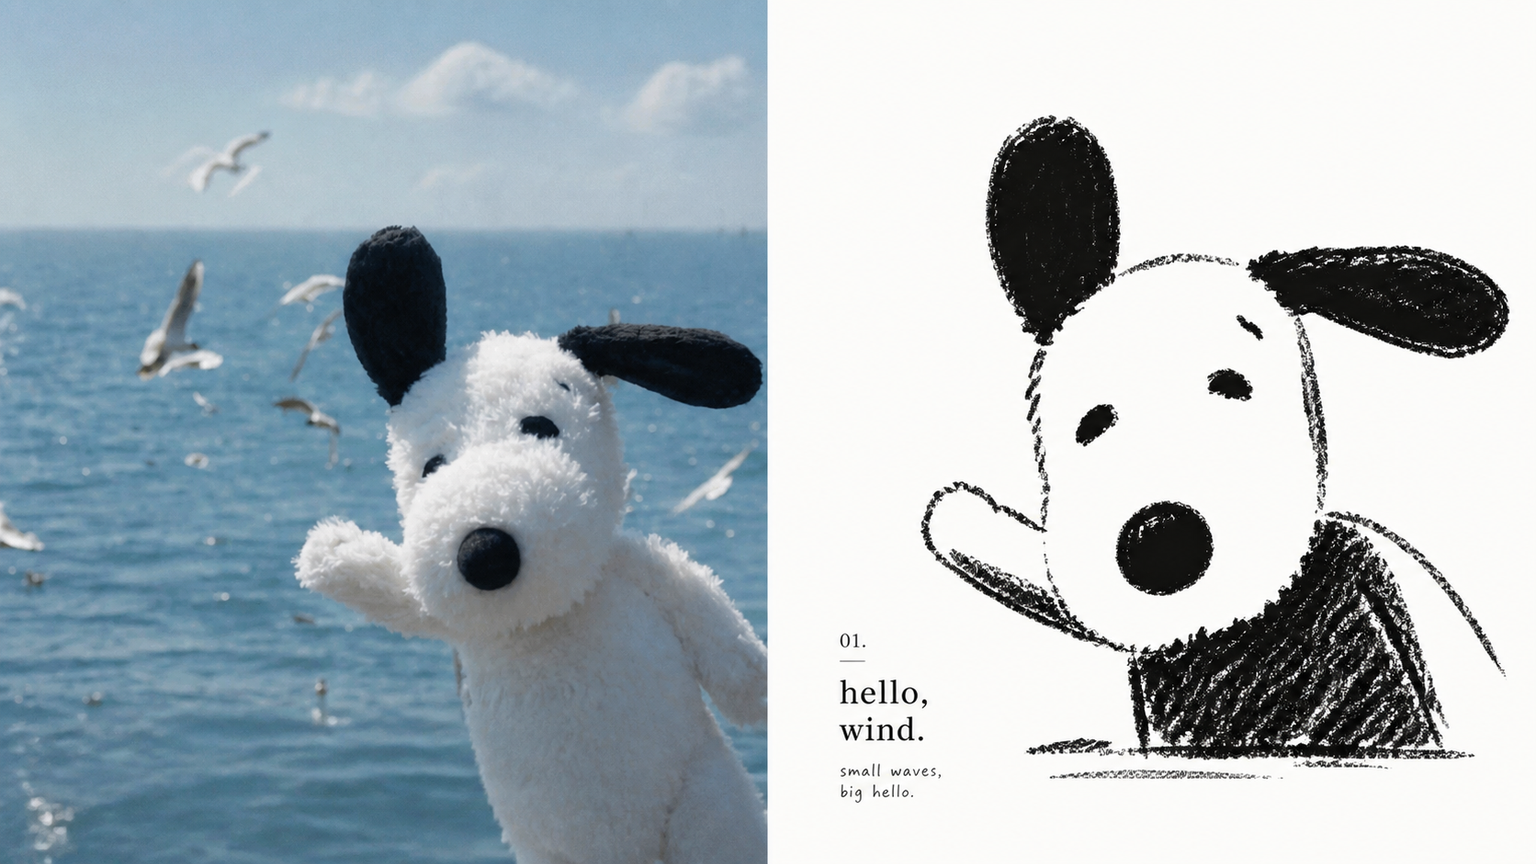
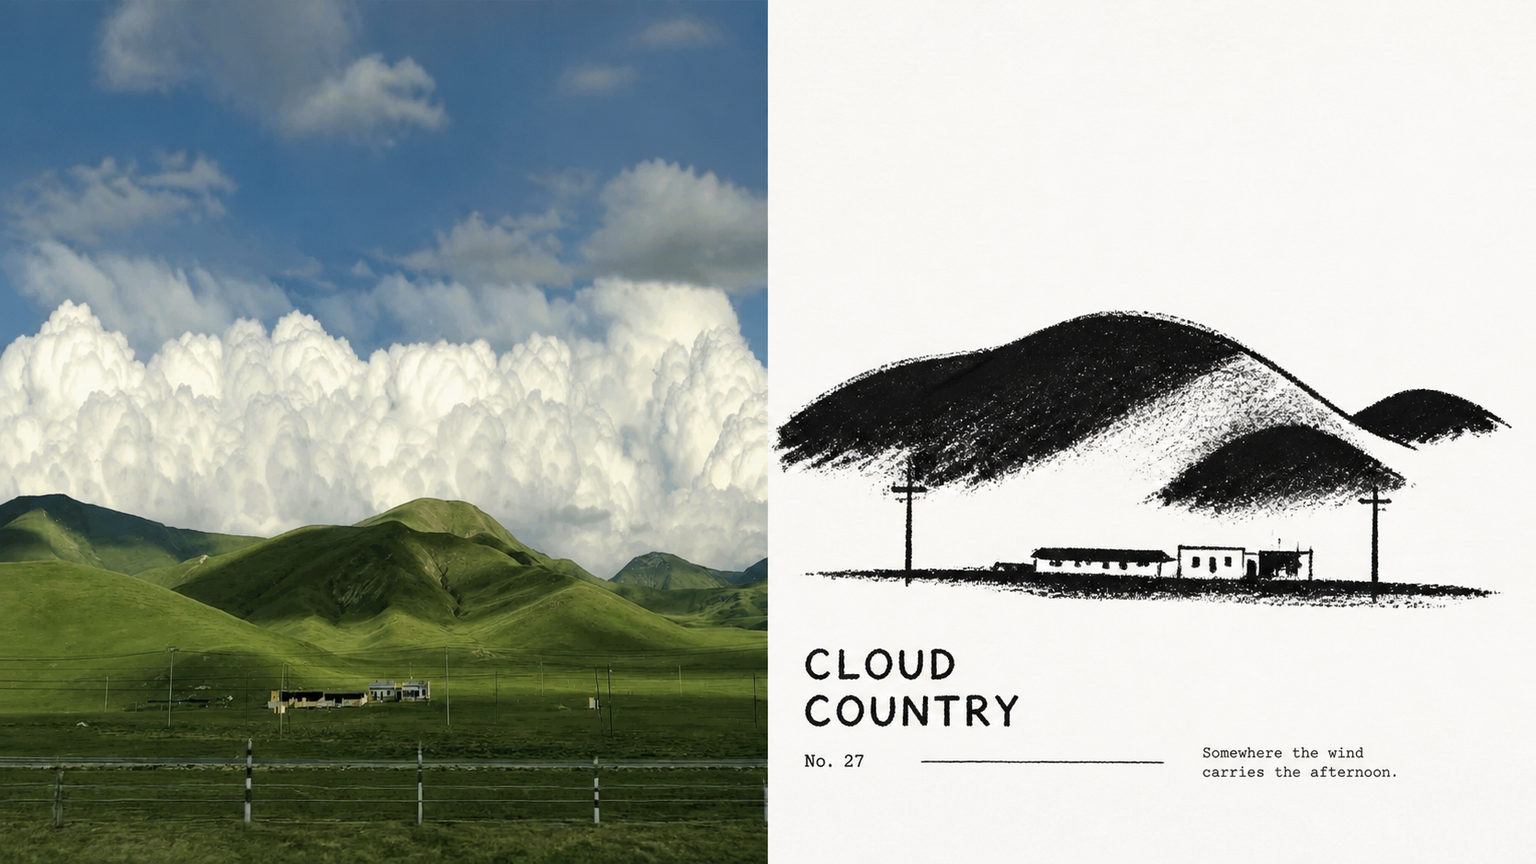
docs: add four 16:9 left-right samples

diff --git a/README.en.md b/README.en.md
@@ -16,6 +16,28 @@
 
 </div>
 
+<!-- xxd-human-intro:start -->
+## The short, honest version
+
+Ever had a photo you loved turn into generic “AI design”? The subject survives, but the relationship, mood, and tiny details that made the photo yours disappear.
+
+That frustration is why I made **Panel 010**. It does not press a template onto your image. It first works out what must not be lost, then translates it into **Compress a photograph into a rough black dry-media picture-book silhouette on clean white paper**.
+
+### Understand it in 30 seconds
+
+- **Give it:** one photo, a folder of images, or a rough idea.
+- **It does:** preserves recognizable people, objects, actions, and relationships, then redesigns them in this Panel’s own visual language.
+- **You get:** ready-to-use PNGs—comparison layouts, design-only artwork, multiple ratios, or a wallpaper set.
+
+### The easiest way to try it
+
+You do not need to study every option first. Give your Agent an image and say:
+
+> Use XXD Panel 010 on this image and recommend the best layout and size first.
+
+Check the samples below if you want to feel out the aesthetic. If you are ready, jump to [Get started](#get-started). The full modes, sizes, and parameters are tucked into an expandable reference for later.
+<!-- xxd-human-intro:end -->
+
 ## Samples · From X
 
 <table>
@@ -29,6 +51,11 @@
   </tr>
   <tr>
     <td colspan="2"><img src="./assets/examples/sample-05.png" alt="XXD Panel 010 Sample 5"></td>
+  </tr>
+  <tr>
+    <td width="33%"><img src="./assets/examples/sample-06.png" alt="XXD Panel 010 Sample 6"></td>
+    <td width="33%"><img src="./assets/examples/sample-07.png" alt="XXD Panel 010 Sample 7"></td>
+    <td width="33%"><img src="./assets/examples/sample-08.png" alt="XXD Panel 010 Sample 8"></td>
   </tr>
 </table>
 
@@ -86,6 +113,9 @@ If an unrelated photograph could replace the source without materially changing 
 - **Minimal environment:** one rough ground line, a few strokes, or tiny signs can suggest grass, rain, smoke, table, road, or wind.
 - **One relational story:** one pose, action, distance, or interaction carries the narrative inside generous quiet space.
 - **Picture-book editorial type:** restrained printed small type with only a trace of clumsy handwriting, crayon form, or imperfect lettering.
+
+<details>
+<summary><strong>Full capabilities and parameters (open when needed)</strong></summary>
 
 ## The original brief is authoritative
 
@@ -228,6 +258,8 @@ GPT Image 2 is the default first choice. It keeps this project's established wor
 Seedance 5.0 Pro, Nano Banana Pro (Gemini Image Pro), Nano Banana 2 (Gemini Image Flash), or another compatible bitmap model may also be used when it is actually available through the current tools or configured routes and can satisfy source fidelity, whole-canvas ratio, target-language text, and linked-wallpaper multi-reference requirements. An alternative changes only the generation route; it must not change modes, canvas, copy, locale, wallpaper relationship, or the complete-canvas-first strategy.
 
 If no suitable route is available, the Skill asks the user to enable an image-generation tool or provide an API key. User-provided credentials may be used for the current task without being echoed, displayed, logged, or exposed. They are not persisted, and provider, account, billing, or global route configuration is not modified, unless the user explicitly requests that configuration change.
+
+</details>
 
 ## Get started
 

diff --git a/assets/examples/README.md b/assets/examples/README.md
@@ -11,5 +11,8 @@
   - `sample-03.jpg`
   - `sample-04.jpg`
   - `sample-05.png` — generated 16:9 left-right English-copy sample from the Chenxiang poster batch
+  - `sample-06.png` — generated 16:9 left-right English-copy sample from the Chenxiang poster batch
+  - `sample-07.png` — generated 16:9 left-right English-copy sample from the Chenxiang poster batch
+  - `sample-08.png` — generated 16:9 left-right English-copy sample from the Chenxiang poster batch
 
 The repository READMEs display these local copies; the original four samples link back to their X post, while sample-05 is a newly generated batch sample. The samples demonstrate the style's aesthetic motive and range only; they never become generation references, source material, fixed subjects, palettes, composition, copy, or default canvas sizes.
